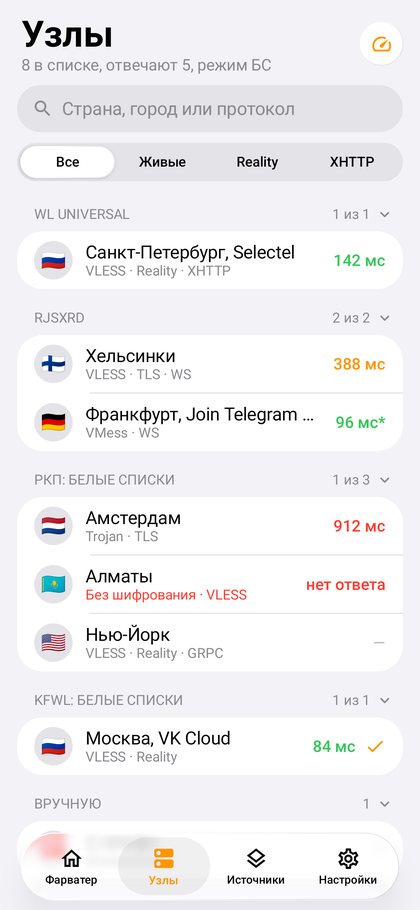
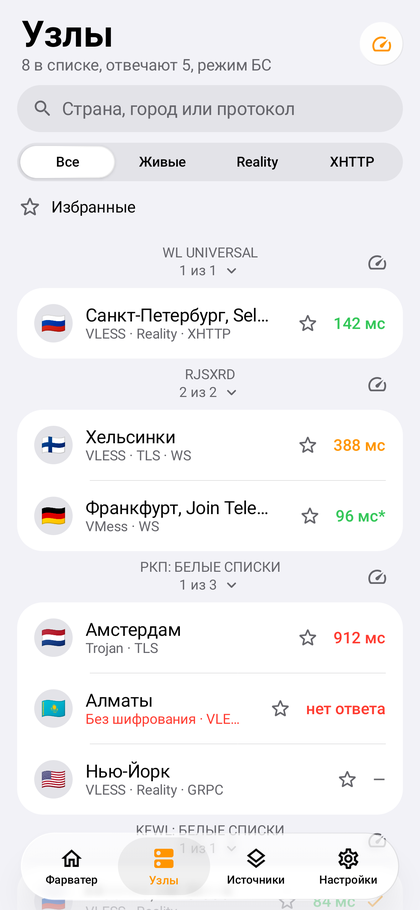
История изменений 1.0.32 и руководство по новым настройкам

diff --git a/CHANGELOG.md b/CHANGELOG.md
@@ -4,6 +4,25 @@
 
 ## [Не выпущено]
 
+## [1.0.32] — 2026-11-21
+
+### Добавлено
+
+- Для группы Галса можно выбрать подписки, транспорты и способ сравнения узлов, указать сервис или собственный HTTPS-адрес. Отдельные узлы можно исключить из автоматического выбора.
+- Правила для доменов и IP-адресов позволяют выбрать VPN, прямое соединение или блокировку. В настройках доступны управление VPN из Tasker и MacroDroid и переход к системной блокировке соединений без VPN.
+- Ссылку на подписку или узел можно добавить с помощью камеры или изображения с QR-кодом. Внешний вид четырёх разделов можно переключить на тему «Обсерватория».
+
+### Изменено
+
+- Ручная проверка по умолчанию запрашивает сайт через узел по HTTPS. Ранее выбранный TCP сохраняется. Ядро Xray обновлено до 26.11.9.
+- Названия подписок выровнены по центру. У маршрутизации, Галса и нейтрального уведомления разные значки. В настройках группы собственный адрес находится после встроенных сервисов.
+
+### Исправлено
+
+- При работающем VPN ошибка проверки активного узла больше не останавливает весь список. Галс откладывает плановую смену рабочего узла до окончания ручной проверки. При обрыве соединения аварийное переключение по-прежнему доступно.
+- При повторной проверке того же набора первыми идут узлы, до которых предыдущий проход не дошёл. Очередь сохраняется в пределах текущего запуска приложения.
+- При ошибочном заголовке подписки отображается сохранённое имя или адрес сервера. Фильтр транспорта KCP учитывает обозначение mKCP.
+
 ## [1.0.31] — 2026-11-03
 
 ### Добавлено
@@ -464,7 +483,8 @@
 - Интерфейс в стиле iOS, светлая и тёмная темы.
 - Импорт подписки по ссылке `farvater://import`.
 
-[Не выпущено]: https://github.com/lutzashl290788-cell/farvater/compare/v1.0.31...HEAD
+[Не выпущено]: https://github.com/lutzashl290788-cell/farvater/compare/v1.0.32...HEAD
+[1.0.32]: https://github.com/farvater-app/farvater/compare/v1.0.31...v1.0.32
 [1.0.31]: https://github.com/lutzashl290788-cell/farvater/compare/v1.0.30...v1.0.31
 [1.0.30]: https://github.com/lutzashl290788-cell/farvater/compare/v1.0.29...v1.0.30
 [1.0.29]: https://github.com/lutzashl290788-cell/farvater/compare/v1.0.28...v1.0.29
